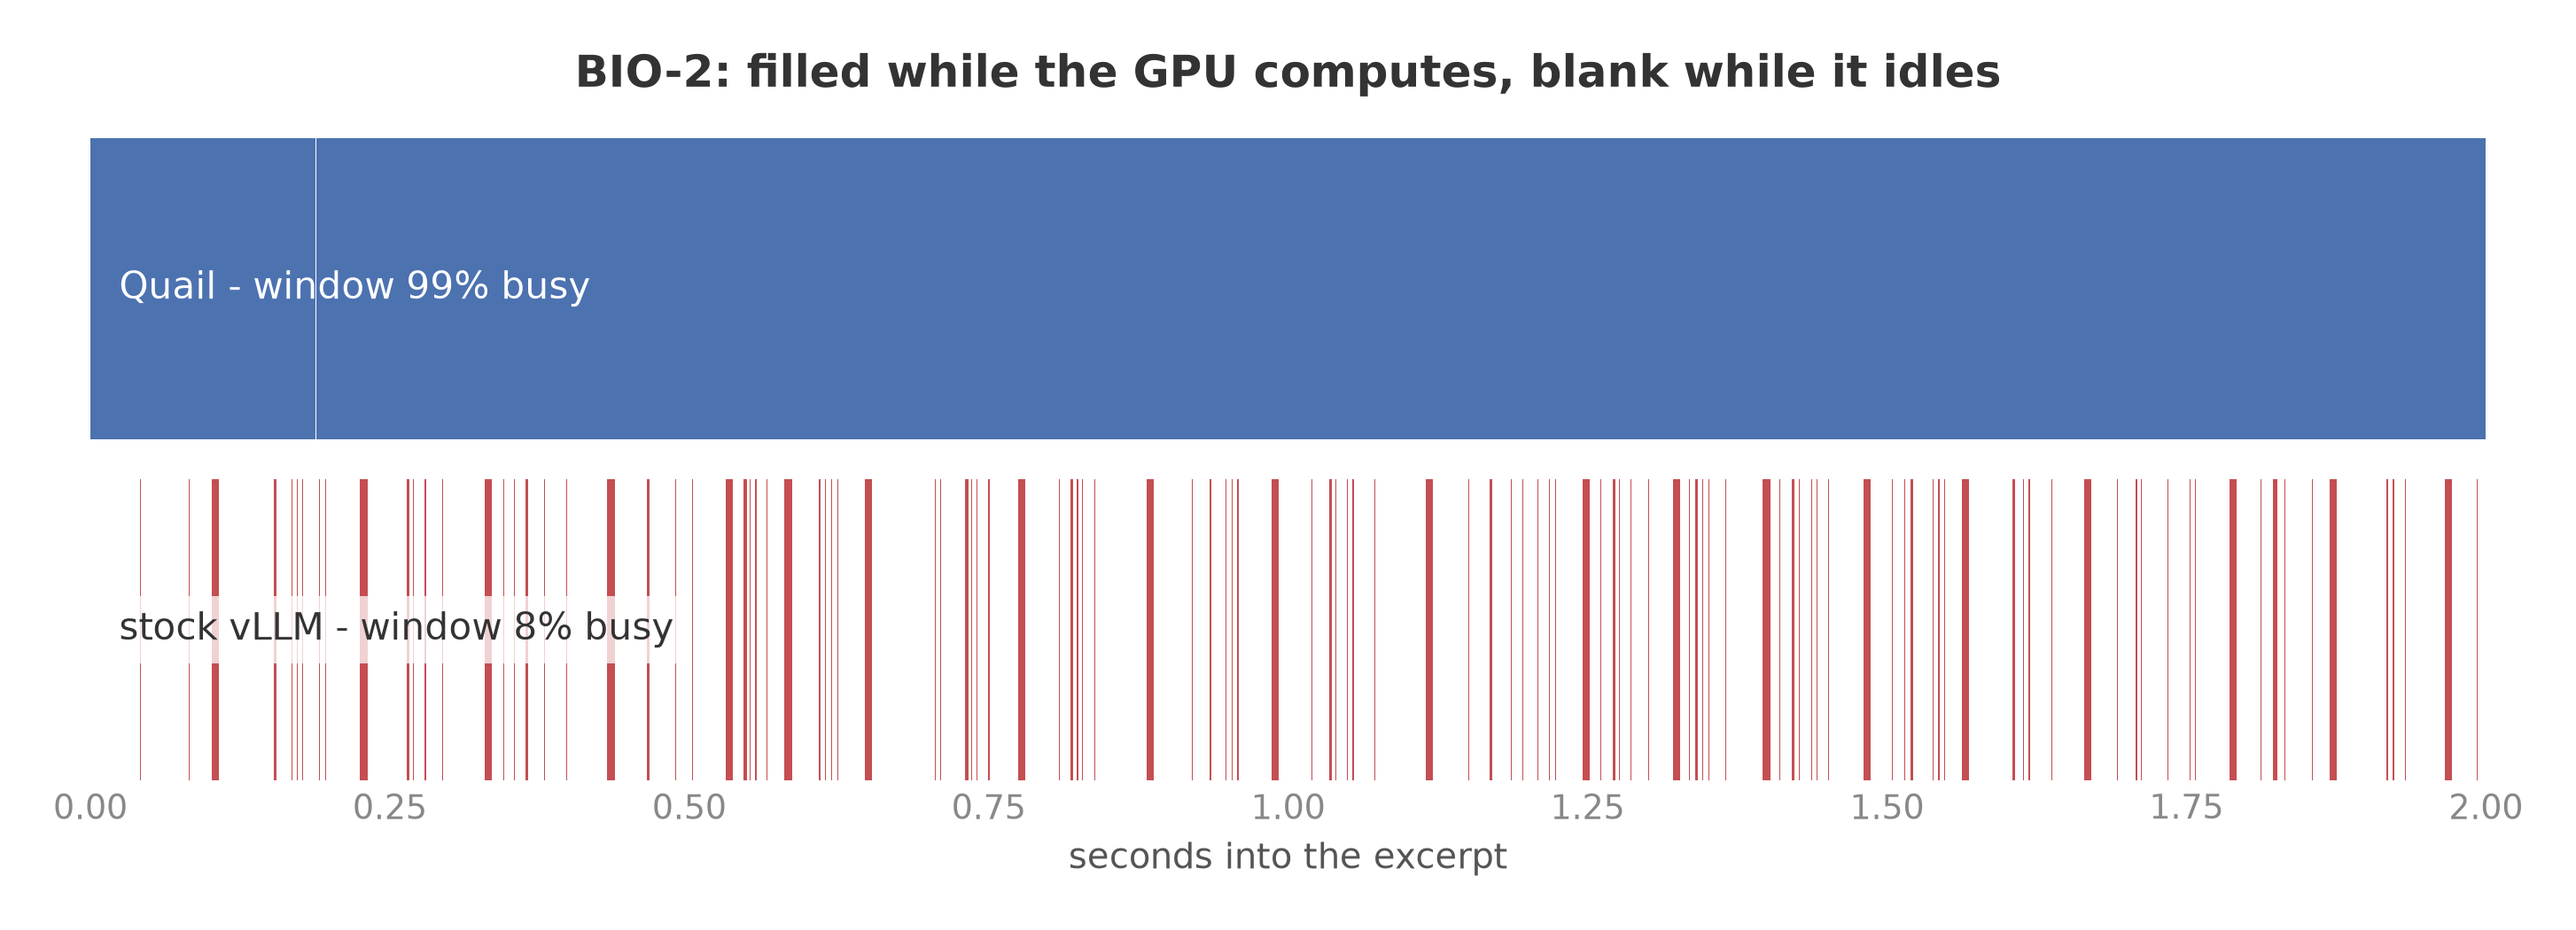
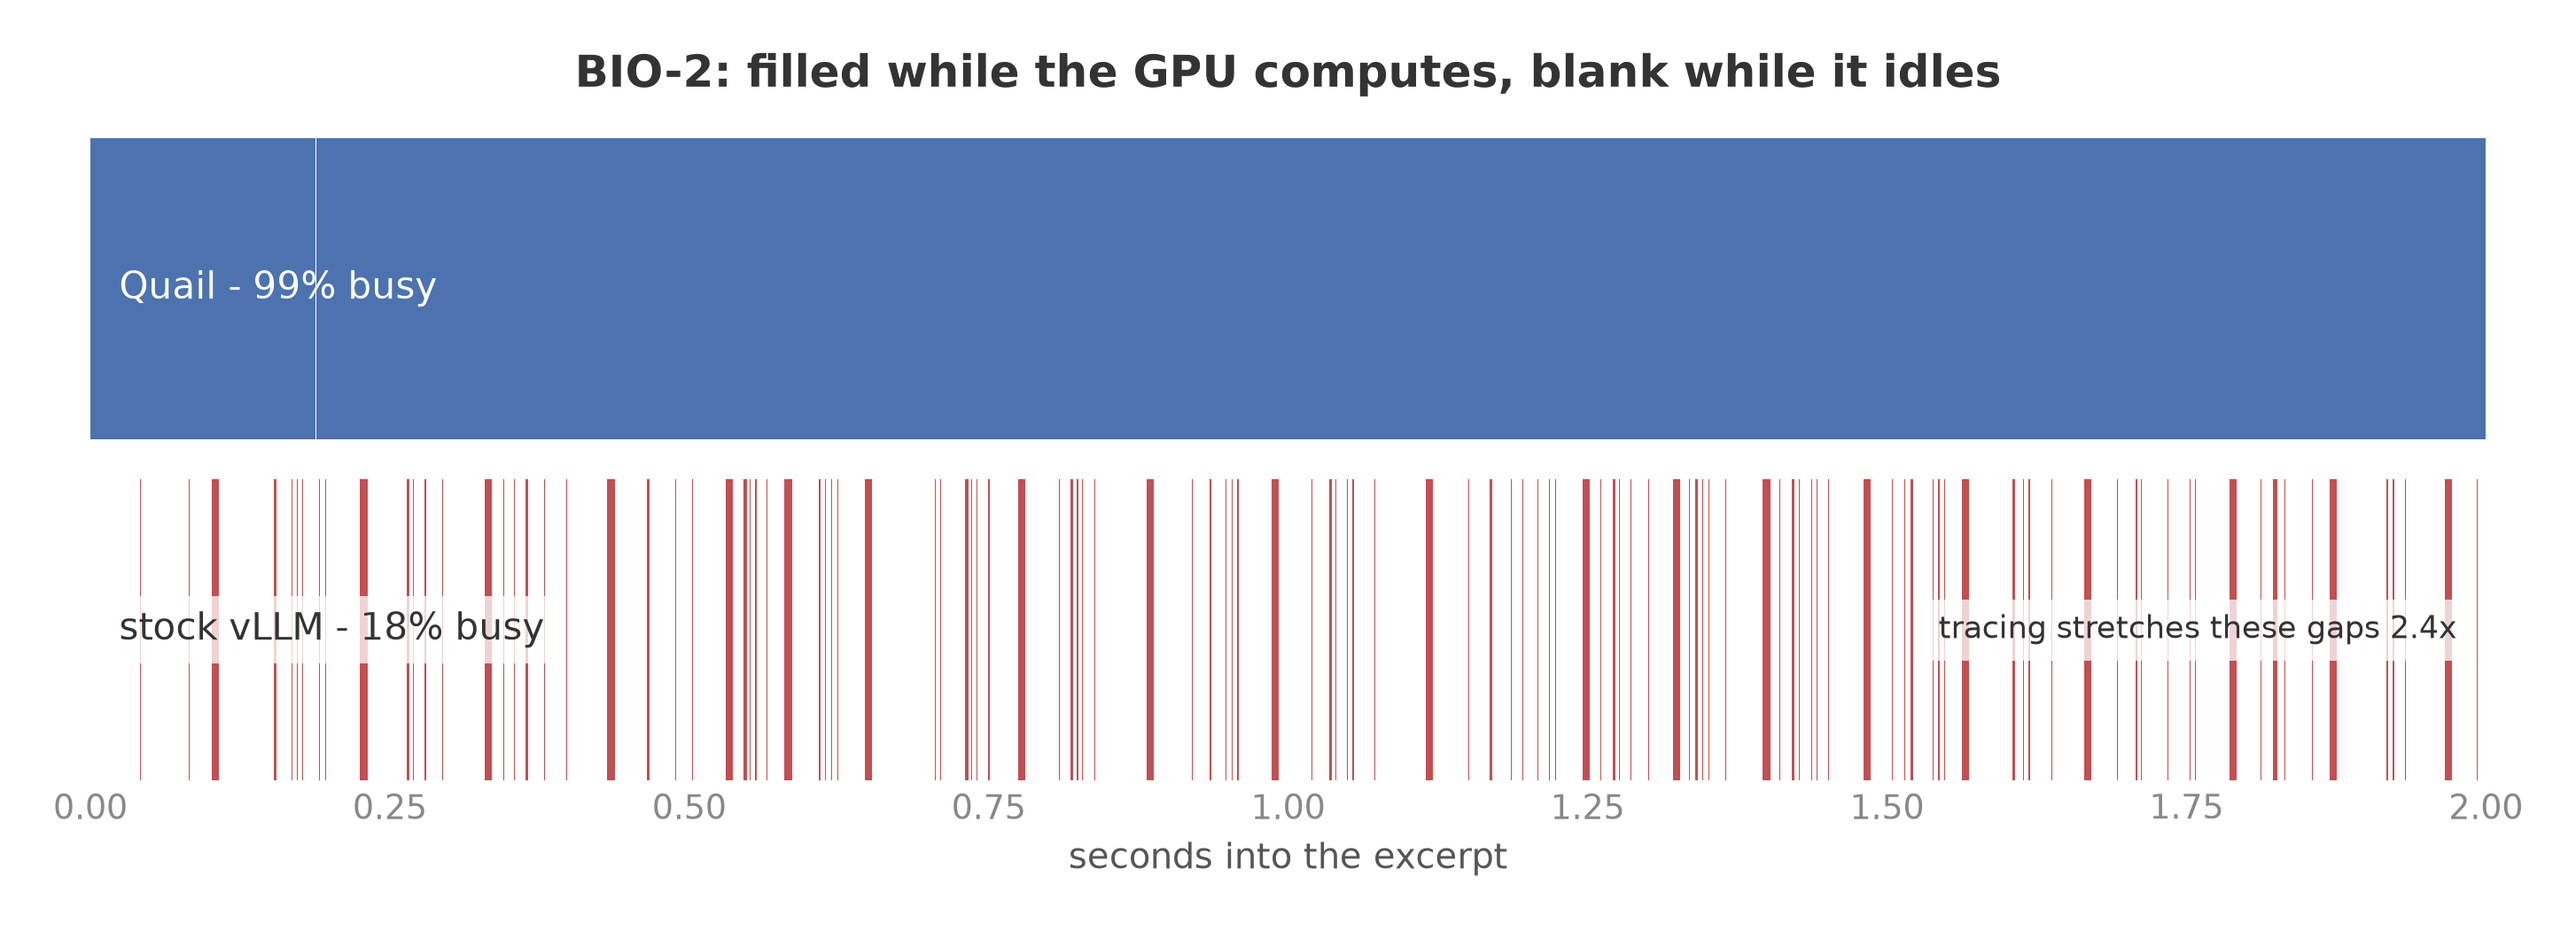
Strips figure: label the corrected busy share, not the traced-window share
The stock strip's label divided kernel time by the profiled window's
own span (8.4%), while every other number in the report divides by
the unprofiled wall (18%). The tracing stretches the CPU gaps 2.41x
and kernels run at normal speed, so the raw share understates the
GPU's real duty. The label now states 18% and a note on the strip
says the drawn gaps are stretched.

Claude-Session: https://claude.ai/code/session_01LCNhjRhCWLPyrH8TJk6zSt

Changed region(s): [[0.743, 0.64, 0.9598, 0.701], [0.1238, 0.64, 0.2786, 0.701], [0.0929, 0.2743, 0.2477, 0.3352]]

diff --git a/reports/make_imdb3_bio2_discrepancies_plots.py b/reports/make_imdb3_bio2_discrepancies_plots.py
@@ -408,15 +408,38 @@ def _merged(intervals):
 def fig_bio2_strips(workdir, stockb):
     """Kernel activity over two-second excerpts, one strip per
     system: every mark is one kernel-execution interval, gaps are
-    GPU idle."""
+    GPU idle.
+
+    Stock's excerpt comes from its traced run, whose tracing
+    stretches the CPU gaps while kernels run at normal speed, so
+    its busy label divides kernel time by the unprofiled wall for
+    the window's requests, not by the stretched excerpt.
+    """
     quail_evs = _kernel_intervals(
         workdir / "traces" / "bio2_join_late.chrome.json.gz")
     stock_evs = _kernel_intervals(_stock_bio2_trace(workdir, stockb))
+
+    def union_s(evs):
+        return sum(e - s for s, e in _merged(sorted(evs))) / 1e6
+
+    def span_s(evs):
+        return (max(e for _, e in evs) - min(s for s, _ in evs)) / 1e6
+
+    quail_busy = union_s(quail_evs) / span_s(quail_evs)
+    w = stockb["windows"][0]
+    unprof_s = w["requests"] * stockb["wall_s"] / stockb["pairs"]
+    stock_busy = union_s(stock_evs) / unprof_s
+    stock_raw = union_s(stock_evs) / span_s(stock_evs)
+    stretch = w["wall_s"] / unprof_s
+
     fig, axes = plt.subplots(2, 1, figsize=(9.6, 3.4), sharex=True)
-    rows = ((axes[0], quail_evs, BLUE, "white", "Quail"),
-            (axes[1], stock_evs, RED, DARK, "stock vLLM"))
+    rows = ((axes[0], quail_evs, BLUE, "white",
+             f"Quail - {quail_busy:.0%} busy", None),
+            (axes[1], stock_evs, RED, DARK,
+             f"stock vLLM - {stock_busy:.0%} busy",
+             f"tracing stretches these gaps {stretch:.1f}x"))
     excerpt = 2.0
-    for ax, evs, color, text_color, label in rows:
+    for ax, evs, color, text_color, label, note in rows:
         t0 = min(s for s, _ in evs)
         t1 = max(e for _, e in evs)
         mid = t0 + (t1 - t0 - excerpt * 1e6) / 2
@@ -425,16 +448,21 @@ def fig_bio2_strips(workdir, stockb):
         ax.broken_barh(
             [((s - mid) / 1e6, (e - s) / 1e6) for s, e in cut],
             (0, 1), color=color, linewidth=0)
-        busy = sum(e - s for s, e in _merged(sorted(evs))) / (t1 - t0)
         ax.set_yticks([])
         ax.set_ylabel(None)
         ax.set_ylim(0, 1)
-        ax.text(0.012, 0.5, f"{label} - window {busy:.0%} busy",
+        ax.text(0.012, 0.5, label,
                 transform=ax.transAxes, va="center",
                 color=text_color,
                 bbox=(None if text_color == "white" else
                       dict(facecolor="white", alpha=0.75,
                            edgecolor="none")))
+        if note:
+            ax.text(0.988, 0.5, note, transform=ax.transAxes,
+                    va="center", ha="right", color=text_color,
+                    fontsize=8.5,
+                    bbox=dict(facecolor="white", alpha=0.75,
+                              edgecolor="none"))
         ax.set_xlim(0, excerpt)
     axes[1].set_xlabel("seconds into the excerpt")
     axes[0].set_title("BIO-2: filled while the GPU computes, blank "
@@ -442,10 +470,10 @@ def fig_bio2_strips(workdir, stockb):
     fig.tight_layout()
     fig.savefig(OUT / "discrepancy_bio2_strips.png", dpi=300)
     plt.close(fig)
-    return dict(quail_busy=round(
-        sum(e - s for s, e in _merged(sorted(quail_evs)))
-        / (max(e for _, e in quail_evs)
-           - min(s for s, _ in quail_evs)), 4))
+    return dict(quail_busy=round(quail_busy, 4),
+                stock_busy_corrected=round(stock_busy, 4),
+                stock_busy_raw=round(stock_raw, 4),
+                stock_trace_stretch=round(stretch, 2))
 
 
 def fig_bio2_cpu(workdir, stockb):

diff --git a/reports/2026-08-30-imdb3-bio2-discrepancies.md b/reports/2026-08-30-imdb3-bio2-discrepancies.md
@@ -206,10 +206,13 @@ Figure: plots/discrepancy_bio2_strips.png
 
 The strips show two-second excerpts of the profiled windows: color
 where the GPU is executing a kernel, blank where it is idle.
-Quail's strip is one solid band; stock's is slivers. Stock's strip
-comes from its profiled run, whose CPU tracing stretches the wall
-about 2.4x, so its true idle share is smaller than the strip's 92% -
-the corrected figure is the 82% above.
+Quail's strip is one solid band; stock's is slivers. Stock's
+excerpt comes from its traced run, and the tracing stretches the
+CPU gaps about 2.4x while kernels run at normal speed. So the blank
+share of stock's strip overstates the idle: raw, the window is 8.4%
+busy; against the unprofiled wall for the same 6,762 requests it is
+18%. The strip's label states the corrected 18%, and the note on
+the strip says why the ink shows more blank than that.
 
 The trace's Python stacks say what fills the idle. Over the
 28.3-second window (6,762 requests, 2.1 seconds of merged kernel
